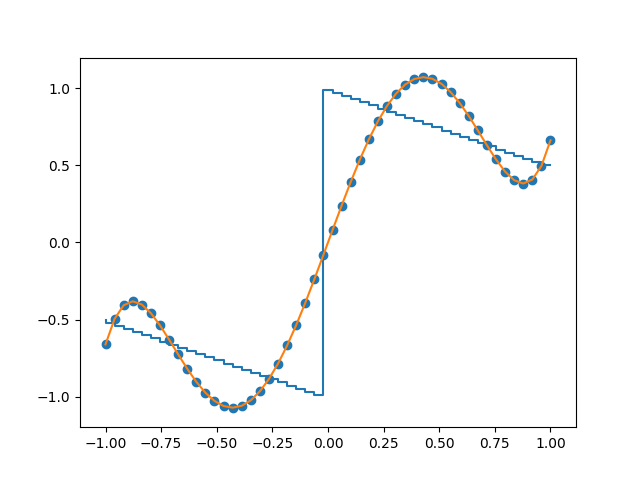
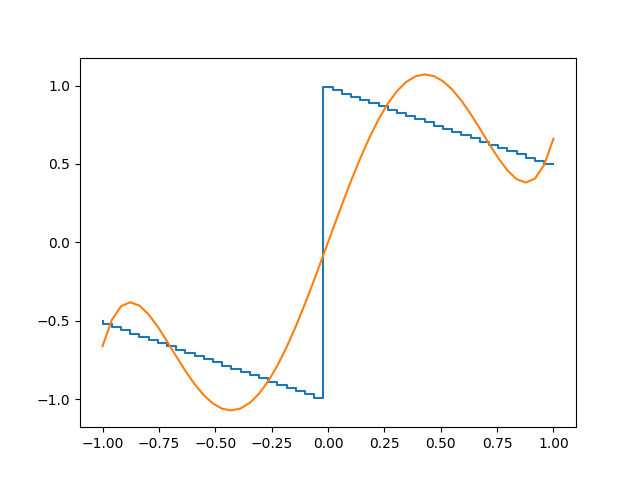
Updated chapter 02 material

diff --git a/atapChapter02.py b/atapChapter02.py
@@ -4,6 +4,7 @@ import matplotlib
 matplotlib.use('Agg')
 import matplotlib.pyplot as plt
 import chebyshevFunctions as cf
+import numpy.polynomial.chebyshev as cheb
 
 # Any interval [a,b] can be scaled to [-1,1] so we will focus on [-1,1]. 
 
@@ -49,3 +50,12 @@ grid = np.linspace(-1,1,50)
 b.step(grid,f(grid)) 
 
 plt.savefig('figures/ch02/figure03.png')
+
+p = cheb.Chebyshev.interpolate(f,5)
+
+b.plot(grid,p(grid))
+for i in grid:
+  if p(i) == f(i):
+    b.scatter(p(i),f(i))
+
+plt.savefig('figures/ch02/figure04.png')
